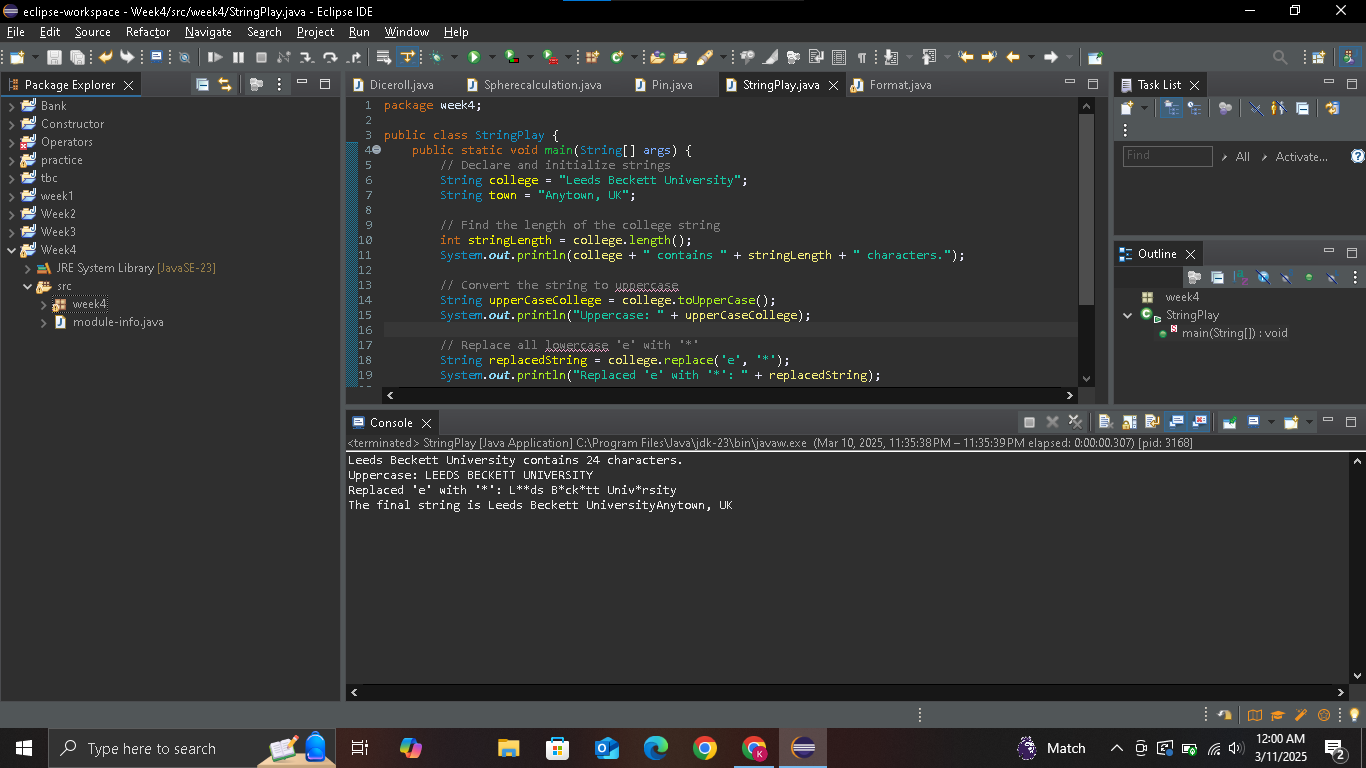
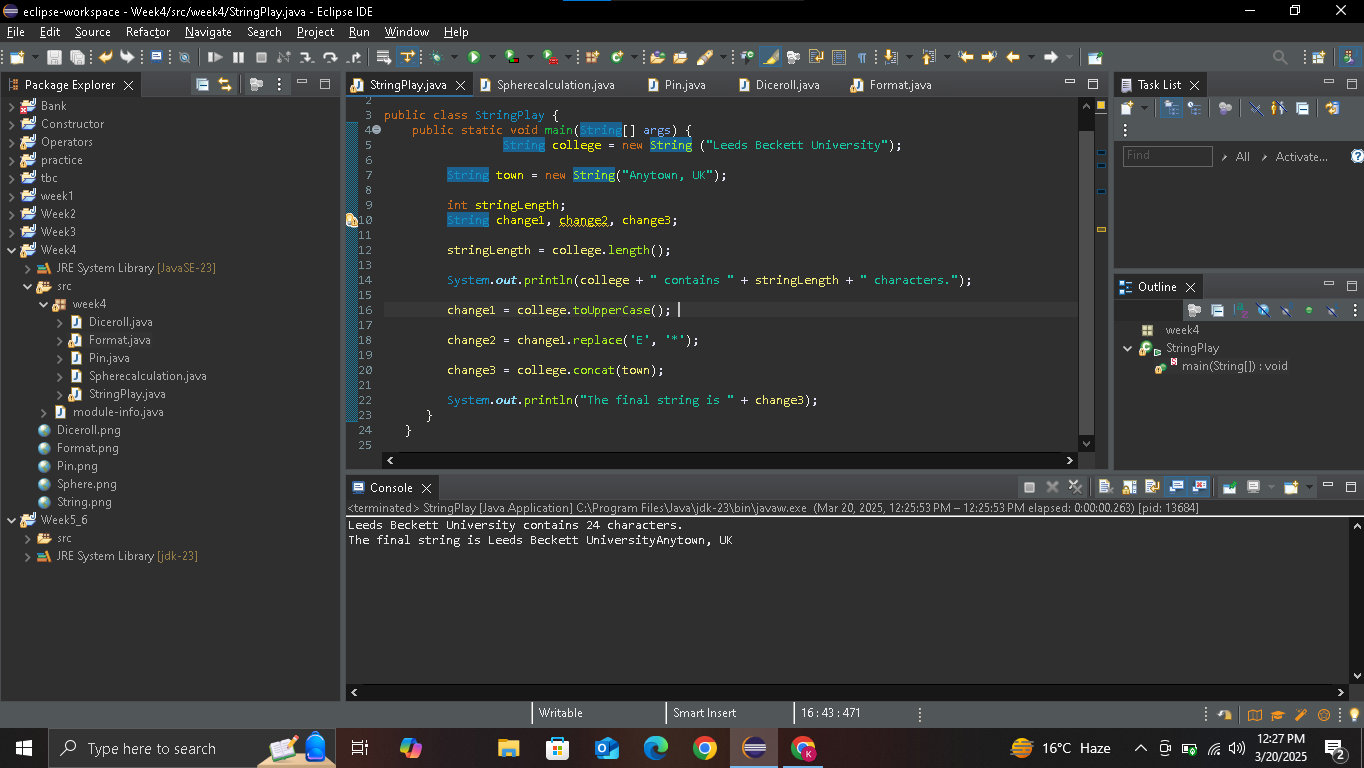
completed

diff --git a/Week4/src/week4/StringPlay.java b/Week4/src/week4/StringPlay.java
@@ -2,24 +2,23 @@ package week4;
 
 public class StringPlay {
     public static void main(String[] args) {
-        // Declare and initialize strings
-        String college = "Leeds Beckett University";
-        String town = "Anytown, UK";
+    	         String college = new String ("Leeds Beckett University"); 
 
-        // Find the length of the college string
-        int stringLength = college.length();
-        System.out.println(college + " contains " + stringLength + " characters.");
+         String town = new String("Anytown, UK"); 
 
-        // Convert the string to uppercase
-        String upperCaseCollege = college.toUpperCase();
-        System.out.println("Uppercase: " + upperCaseCollege);
+         int stringLength;
+         String change1, change2, change3;
 
-        // Replace all lowercase 'e' with '*'
-        String replacedString = college.replace('e', '*');
-        System.out.println("Replaced 'e' with '*': " + replacedString);
+         stringLength = college.length(); 
 
-        // Concatenate college and town
-        String finalString = college.concat(town);
-        System.out.println("The final string is " + finalString);
-    }
-}
+         System.out.println(college + " contains " + stringLength + " characters.");
+
+         change1 = college.toUpperCase(); 
+
+         change2 = change1.replace('E', '*'); 
+
+         change3 = college.concat(town); 
+
+         System.out.println("The final string is " + change3);
+      }
+   }

diff --git a/Week4/src/week4/Format.java b/Week4/src/week4/Format.java
@@ -18,26 +18,20 @@ public class Format {
 
         Scanner scan = new Scanner(System.in);
 
-        // Declare money as a NumberFormat object for currency
         NumberFormat money = NumberFormat.getCurrencyInstance();
 
-        // Declare  as a DecimalFormat object to format weight to 2 decimal places
         DecimalFormat fmt = new DecimalFormat("#0.00");
 
         System.out.println("Welcome to the CS Deli!!\n");
 
-        // Input price per pound
         System.out.print("Enter the price per pound of your item: ");
         pricePerPound = scan.nextDouble();
 
-        // Consume the leftover newline character
         scan.nextLine();  
 
-        // Input weight in ounces
         System.out.print("Enter the weight (ounces): ");
         weightOunces = scan.nextDouble();
 
-        // Convert ounces to pounds
         weight = weightOunces / OUNCES_PER_POUND;
 
         //  total price

diff --git a/Week4/src/week4/Diceroll.java b/Week4/src/week4/Diceroll.java
@@ -12,16 +12,13 @@ public class Diceroll {
 		        Scanner scanner = new Scanner(System.in);
 		        Random random = new Random();
 
-		        // Prompt user for dice sides
 		        System.out.print("How many sides does die 1 have? ");
 		        int sides1 = scanner.nextInt();
 		        System.out.print("How many sides does die 2 have? ");
 		        int sides2 = scanner.nextInt();
 
-		        // Variables to store sum of rolls
 		        int sum1 = 0, sum2 = 0;
 
-		        // Roll the dice 3 times
 		        for (int i = 1; i <= 3; i++) {
 		            int roll1 = random.nextInt(sides1) + 1;
 		            int roll2 = random.nextInt(sides2) + 1;
@@ -33,7 +30,6 @@ public class Diceroll {
 		            System.out.println("Die 2 roll " + i + " = " + roll2);
 		        }
 
-		        // averages
 		        double avg1 = sum1 / 3.0;
 		        double avg2 = sum2 / 3.0;
 
